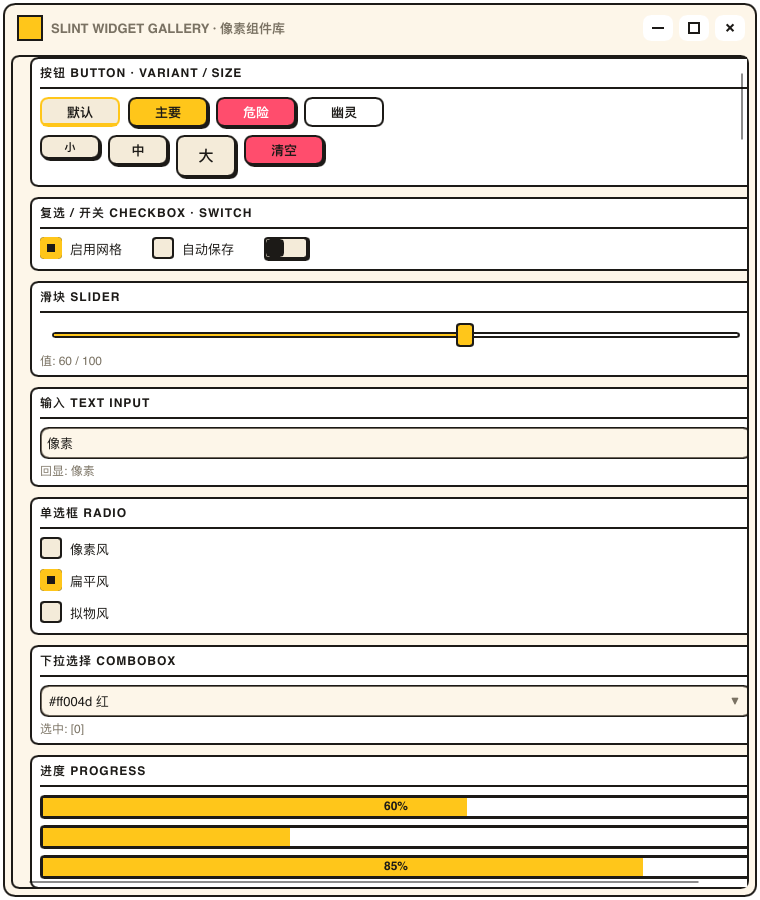
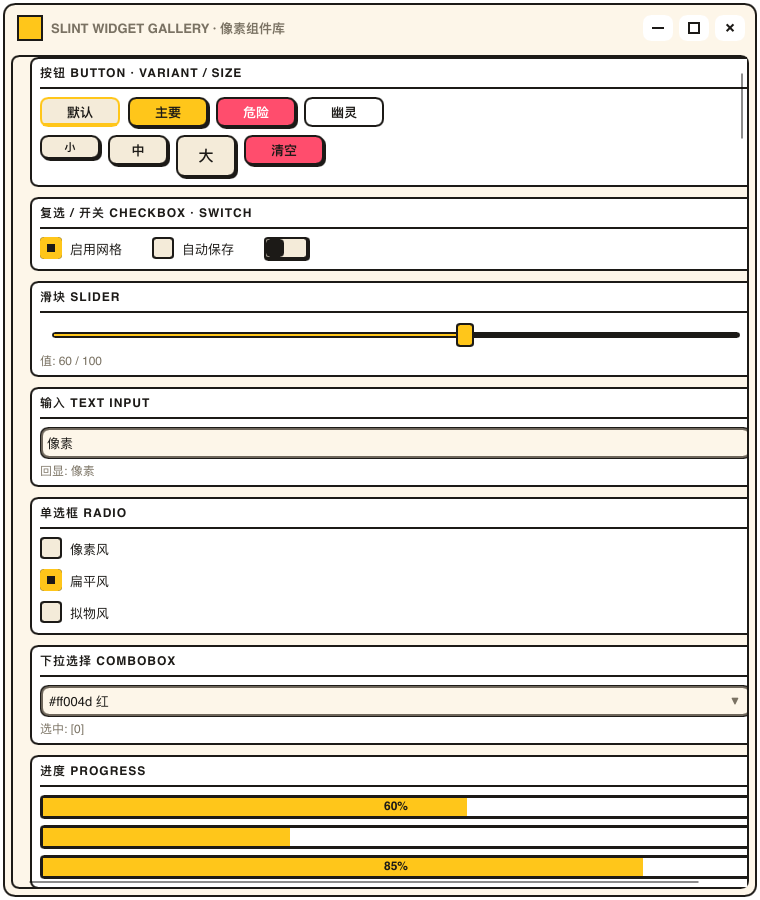
refactor(theme): 描边收敛为"一个值" —— 去掉 border-thin，全库只读 PixelTheme.border-width
owner 指出根因："这种边框应该在一个地方维护的啊 为啥不一致了呢"。之前我按组件分两档
（border-width / border-thin）注定会出现"这个组件 2px、那个组件 1px"，属于设计上的错。

改动：
- 删除 `PixelTheme.border-thin`；把全部组件的描边（含组件内部嵌套线框）统一改读 `PixelTheme.border-width`
  （31 处替换 + 预设与 demo 端的引用清理）；
- 主题编辑器保留「细 1px / 中 2px / 粗 3px」档位，但现在只设 `border-width`（+ primary 同宽）——
  点一下全库一起变；
- 文档（README「描边只有一个值」章节 / COMPONENTS token 表）重写；
- 守卫 `every_border_width_is_theme_driven` 保留（组件里不许再出现硬编码宽度），并清掉已失效的例外项。

验证：fmt --check ✓ / clippy -D warnings ✓ / cargo test --workspace ✓（7 targets，theme_radius 3 passed）；
渲染取证：面板、按钮、输入框、日历、列表外框全为同一个 2px（改 border-width 一处即可全库同步变粗/变细）。

diff --git a/crates/slint-pixel-demo/src/main.rs b/crates/slint-pixel-demo/src/main.rs
@@ -181,7 +181,6 @@ fn setup_gallery() -> Result<GalleryWindow, Box<dyn Error>> {
                 ("window-radius", px(g.get_t_window_radius())),
                 ("border-width", px(g.get_t_border_width())),
                 ("primary-border-width", px(g.get_t_primary_border_width())),
-                ("border-thin", px(g.get_t_border_thin())),
             ],
         );
         g.set_generated_theme(code.into());
@@ -266,7 +265,6 @@ fn wire_generate_theme(editor: &ThemeEditorWindow) {
                 ("window-radius", px(ui.get_t_window_radius())),
                 ("border-width", px(ui.get_t_border_width())),
                 ("primary-border-width", px(ui.get_t_primary_border_width())),
-                ("border-thin", px(ui.get_t_border_thin())),
             ],
         );
         ui.set_generated_theme(code.into());

diff --git a/docs/COMPONENTS.md b/docs/COMPONENTS.md
@@ -52,7 +52,7 @@ slint::global!::<slint_pixel::PixelTheme>(ui.window())
 | `accent` / `on-accent` | `#000000` / `#ffffff` | 强调、选中底色 / **accent 底之上的前景色**（选中行文字、勾选标记、开关滑块） |
 | `danger` / `success` / `warning` / `info` | 红 / 绿 / 琥珀 / 蓝 | 功能色；`PixelAlert` 按 `kind` 取用 |
 | `primary-face` / `primary-text` | `#ffffff` / `#000000` | `PixelButton variant="primary"` 的面与字 |
-| `border-width` / `primary-border-width` / `border-thin` | `2px` / `2px` / `1px` | **两级描边**：外框（容器/卡片/按钮/primary）2px；内框（输入类、小件控件、组件内部线框）1px |
+| `border-width` / `primary-border-width` | `2px` / `2px` | **全库唯一描边值**：所有组件与其内部线框都读 `border-width`；primary 按钮默认同宽 |
 | `radius` / `radius-sm` | `0px` / `radius / 2` | 容器圆角 / 小件圆角（默认直角像素风） |
 | `window-radius` | `0px` | 窗口自身圆角（默认直角窗口）；> 0 需配合 `PixelWindowBody` 与透明窗口，见下 |
 
@@ -125,17 +125,14 @@ export component App inherits Window {
 
 | token | 默认 | 用在哪 |
 | --- | --- | --- |
-| `border-width` | `2px` | **每个组件自己的外框**（含小件与日期/日历等面板型组件）：容器/覆盖层、按钮、菜单、表格、手风琴、折叠、树、列表、日历、看板、向导、编辑器、图表、地图、媒体，以及复选/开关/标签/徽章/评分/色块/分页/步骤等小件 |
+| `border-width` | `2px` | **全库唯一描边值**：所有组件（容器/覆盖层、按钮、菜单、表格、树、列表、日历、看板、编辑器、图表、地图、媒体、输入类、小件）的边框，以及组件内部的线框，全部读它 |
 | `primary-border-width` | `2px` | `PixelButton variant="primary"`（0.2.4 起与普通按钮同宽，不再默认粗一档） |
-| `border-thin` | `1px` | **内联输入框自己的框 + 所有组件内部的嵌套线框**：`PixelTextInput` / `PixelTextArea` / `PixelComboBox` / `PixelSelect` / `PixelNumberInput` / `PixelAutoComplete` / `PixelTagInput` / `PixelSearchBox` / `PixelMention` / `PixelOTPInput`；以及任何「框里再套框」的内层 |
 
-一句话规则：**每个组件自己的外框都是 2px（小件也一样）；只有内联输入框的框，以及框里再套的框是 1px**。
+一句话规则：**描边只有一个值 `border-width`，所有组件（含输入框与内部线框）都读它，改一处全库一起变**。单个组件仍可用自己的 `border-width` 属性覆盖。
 
 ```slint
-PixelTheme.border-width = 1px;
-PixelTheme.primary-border-width = 1px;
-PixelTheme.border-thin = 1px;   // 全 1px：最轻
-// 或全 2px：保留像素分量感
+PixelTheme.border-width = 1px;          // 全库 1px（最轻）
+PixelTheme.primary-border-width = 1px;  // primary 按钮同宽
 ```
 
 `PixelPresets.classic()` / `soft()` / `dark()` 内置都是 2px / 2px / 1px（同一套两级体系）。

diff --git a/README.md b/README.md
@@ -30,10 +30,9 @@
 - **圆角窗口（可选）**：`PixelTheme.window-radius`（默认 `0px` = 直角窗口）+ 库组件 `PixelWindowBody`
   （透明边距 + 圆角 + 描边 + 把内容 clip 在圆角内），Rust 侧一行 `slint_pixel::transparent_window()`
   打开透明窗口即可，见下方「圆角窗口（可选，三步）」。
-- **描边两级（组件外框 2px / 内框与内联输入框 1px）**：每个组件自己的可见外框都是 `border-width: 2px`
-  ——容器/覆盖层、按钮、菜单、表格、树、列表、日历、看板、编辑器、图表、媒体，连复选/开关/标签/徽章/评分/
-  分页/步骤这些小件也一样；只有**内联输入框**（文本输入/文本域/下拉/选择/数字/联想/标签输入/搜索/提及/验证码）
-  与**框里再套的框**用 `border-thin: 1px`。组件里**不再有任何硬编码描边宽度**（有守卫盯着）。
+- **描边只有一个值**：`PixelTheme.border-width`（默认 2px）——所有组件（容器/覆盖层、按钮、菜单、表格、
+  树、列表、日历、看板、编辑器、图表、媒体，以及输入类与复选/开关/标签等小件）连同组件内部的线框全部读它，
+  **改一处全库一起变**；单个组件仍可用自己的 `border-width` 属性覆盖。
 - **一行换整套观感**：`PixelPresets.classic()` / `soft()` / `dark()`——预设同时改语义色、圆角与描边：
   ```slint
   import { PixelPresets } from "@slint_pixel";
@@ -406,24 +405,14 @@ init => {
 shadow / text-color / dim / highlight / danger` 与 `palette`；`PixelSlider` 的
 `track / fill / thumb / border / shadow` 等），宿主可在 `.slint` 里直接覆盖。
 
-### 描边两级：外框 2px / 内框 1px
-
-| token | 默认 | 用在哪 |
-| --- | --- | --- |
-| `border-width` | `2px` | 每个组件自己的外框（含小件与日期/日历等面板型组件） |
-| `primary-border-width` | `2px` | primary 按钮（0.2.4 起与普通按钮同宽） |
-| `border-thin` | `1px` | 内联输入框自己的框，以及**所有组件内部的嵌套线框** |
-
-觉得"有粗有细"就把三档设成同一个值（全 1px 最轻、全 2px 保留像素分量感）：
+### 描边只有一个值
 
 ```slint
-PixelTheme.border-width = 2px;
-PixelTheme.primary-border-width = 2px;
-PixelTheme.border-thin = 1px;    // 三个都填 1px 或都填 2px 即"全库同宽"
+PixelTheme.border-width = 2px;          // 默认；所有组件与组件内部的线框都读它
+PixelTheme.primary-border-width = 2px;  // primary 按钮，默认与普通按钮同宽
 ```
 
-`PixelPresets.classic() / soft() / dark()` 内置都是 2px / 2px / 1px；主题编辑器里有
-「描边 细 1px / 中 2px / 粗 3px」一键档位。
+改粗细只改这一处（想全库更细就都设成 `1px`）；某个组件要单独强调，用该组件自己的 `border-width` 属性覆盖即可。
 
 ### 圆角窗口（可选，三步）
 
